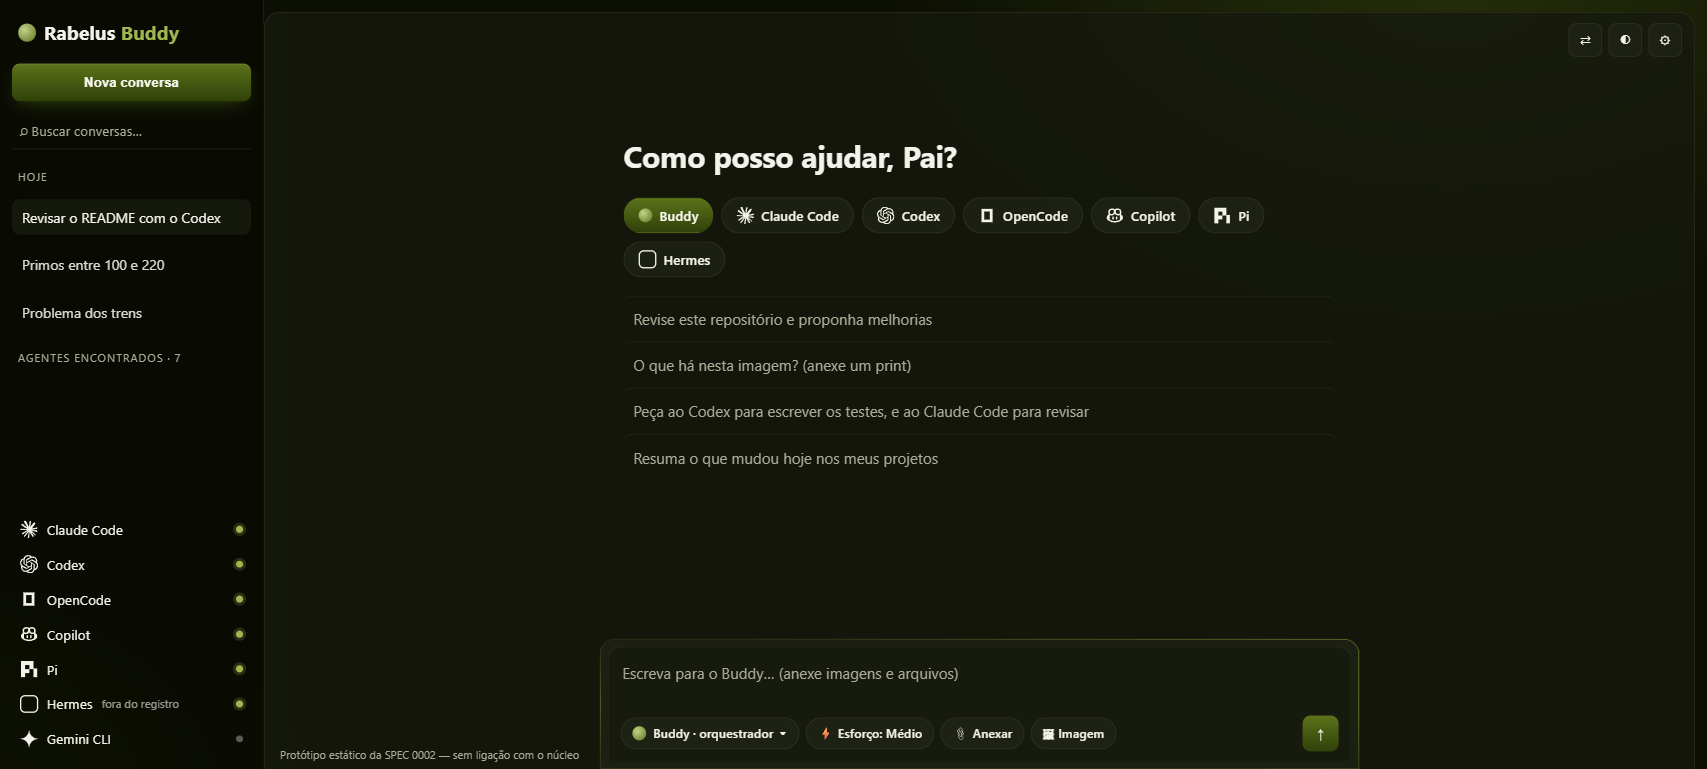
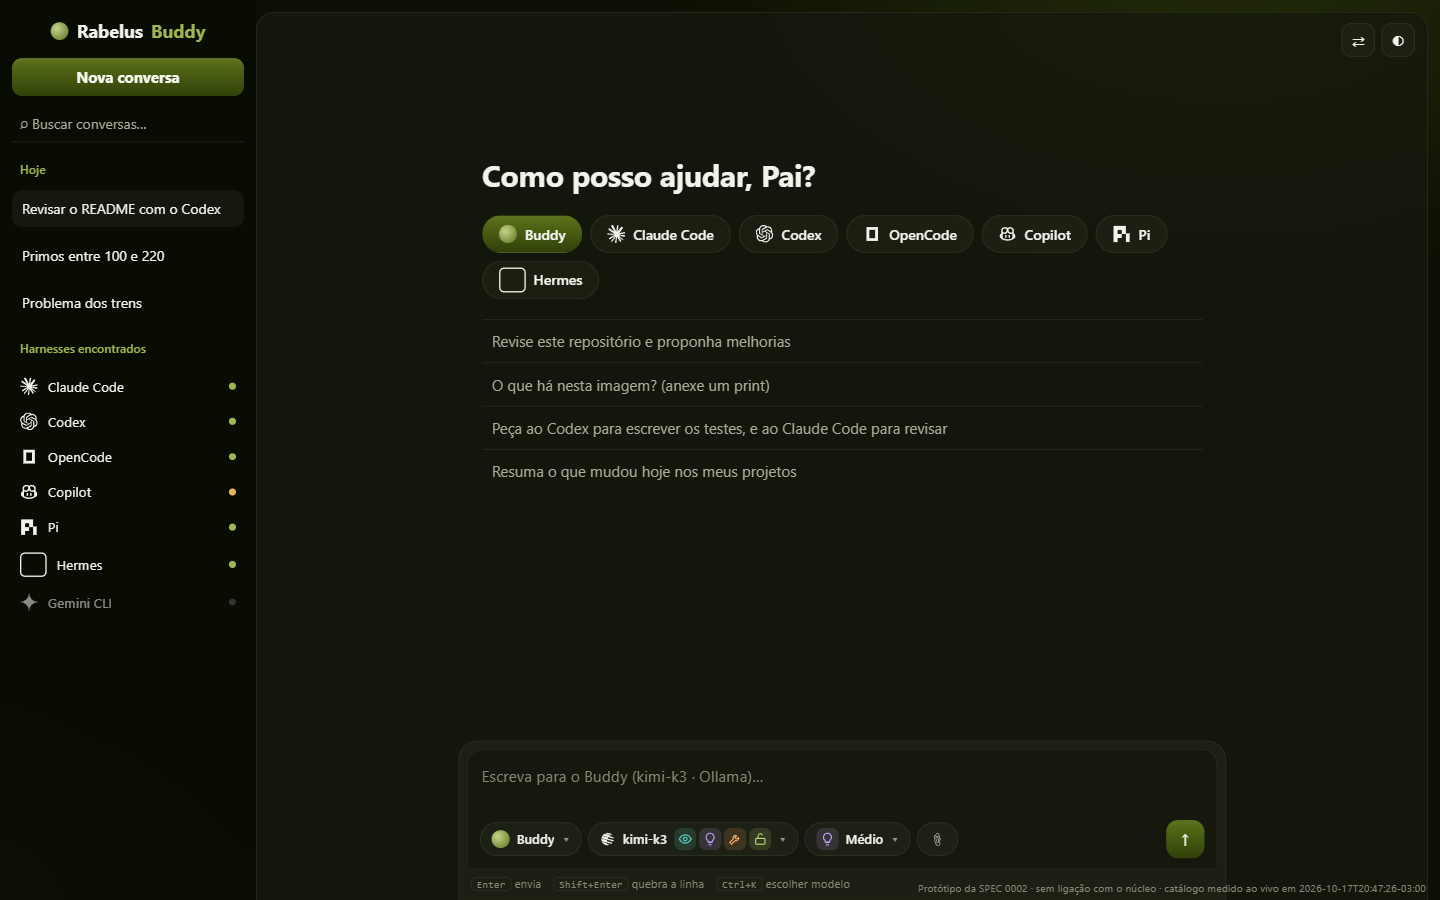
docs(m1): SPEC descreve o protótipo v3 (ergonomia medida no t3.chat); capturas novas ao lado das antigas (nada se apaga); claims renovados; falhas de governança registradas no barramento

diff --git a/docs/40-specs/0002-orquestrador-e-multimodal/SPEC.md b/docs/40-specs/0002-orquestrador-e-multimodal/SPEC.md
@@ -62,14 +62,17 @@ O M0 entregou um núcleo governado com uma console, mas o agente só conversa co
       3. a família do modelo, só para o **lab**.
     - As fontes divergem (ex.: `minimax-m3`), e por isso a fonte aparece junto da capacidade.
     - O catálogo é guardado com data e renovado no máximo uma vez por dia. Os logos dos labs são servidos pela console.
-    - **Ergonomia** (Pai: "usabilidade quase nula" na primeira versão do protótipo, com três colunas espremidas sobre a caixa de mensagem):
-      - **Harness** é um menu próprio, opaco, com ícone, nome, uma linha do que é e o estado.
-      - **Modelo** abre uma **paleta central**: busca com foco automático; filtros de capacidade em pílulas; provedores em abas; labs como títulos de grupo com logo; uma linha por modelo com nome completo, id, ícones, contexto e preço.
-      - A paleta tem **Recentes**, teclado (↑ ↓ Enter, Esc, Ctrl+K) e o escolhido marcado.
-      - No celular, a linha empilha, e filtros e abas rolam de lado.
-      - Vidro só onde não compete com a leitura: camadas sobrepostas são opacas, porque o vidro aninhado não desfoca a página.
-      - Sob a caixa aparecem **só** as capacidades presentes, mais o aviso "sem visão" quando falta, e a fonte num "ⓘ".
-      - Modelo sem dados de capacidade diz "capacidades desconhecidas".
+    - **Ergonomia** (Pai: "usabilidade quase nula", "horrível, tanto desktop quanto mobile"). As duas primeiras versões do protótipo foram descartadas. A terceira copia a medida do seletor do t3.chat (inspecionado no navegador em 2026-10-17, desktop e 390 px):
+      - **Harness** e **Modelo** em pílulas separadas, cada uma com um **popover ancorado nela**, opaco; nada de modal nem de colunas espremidas.
+      - Popover de modelo:
+        - **provedor ou roteador** num controle segmentado no topo;
+        - busca, com **filtro de capacidades em menu**;
+        - **trilho de ícones dos labs** à esquerda (todos, favoritos e um por lab);
+        - **uma coluna de modelos**, em que cada linha tem logo do lab, nome, preço (só no roteador pago: grátis, $, $$ ou $$$), estrela de favorito, descrição curta, **ícones de capacidade coloridos** (uma cor por capacidade) e contexto.
+      - Teclado: ↑ ↓ Enter, Esc, Ctrl+K.
+      - Com um harness externo, o popover mostra só os modelos dele, sem provedor nem trilho, e o esforço some.
+      - **Celular:** a caixa vira **[+] · harness · modelo · enviar**; o [+] reúne anexar arquivo, imagem e esforço. As capacidades do modelo escolhido ganham **linha própria sob a caixa**, com o nome de cada uma.
+      - Ícones servidos pela console (o models.dev não manda CORS); modelo sem dados de capacidade diz "capacidades desconhecidas".
     - A escolha controla o resto da caixa: o botão de imagem só fica ativo com visão, e o esforço só oferece os níveis que o modelo aceita.
 11. **Sessão de TUI com o Pai**, no fim do M1: `ink` × `pi-tui` lado a lado, com as mesmas telas (conversa, aprovação, andamento), para ele decidir (ADR 0016).
 
